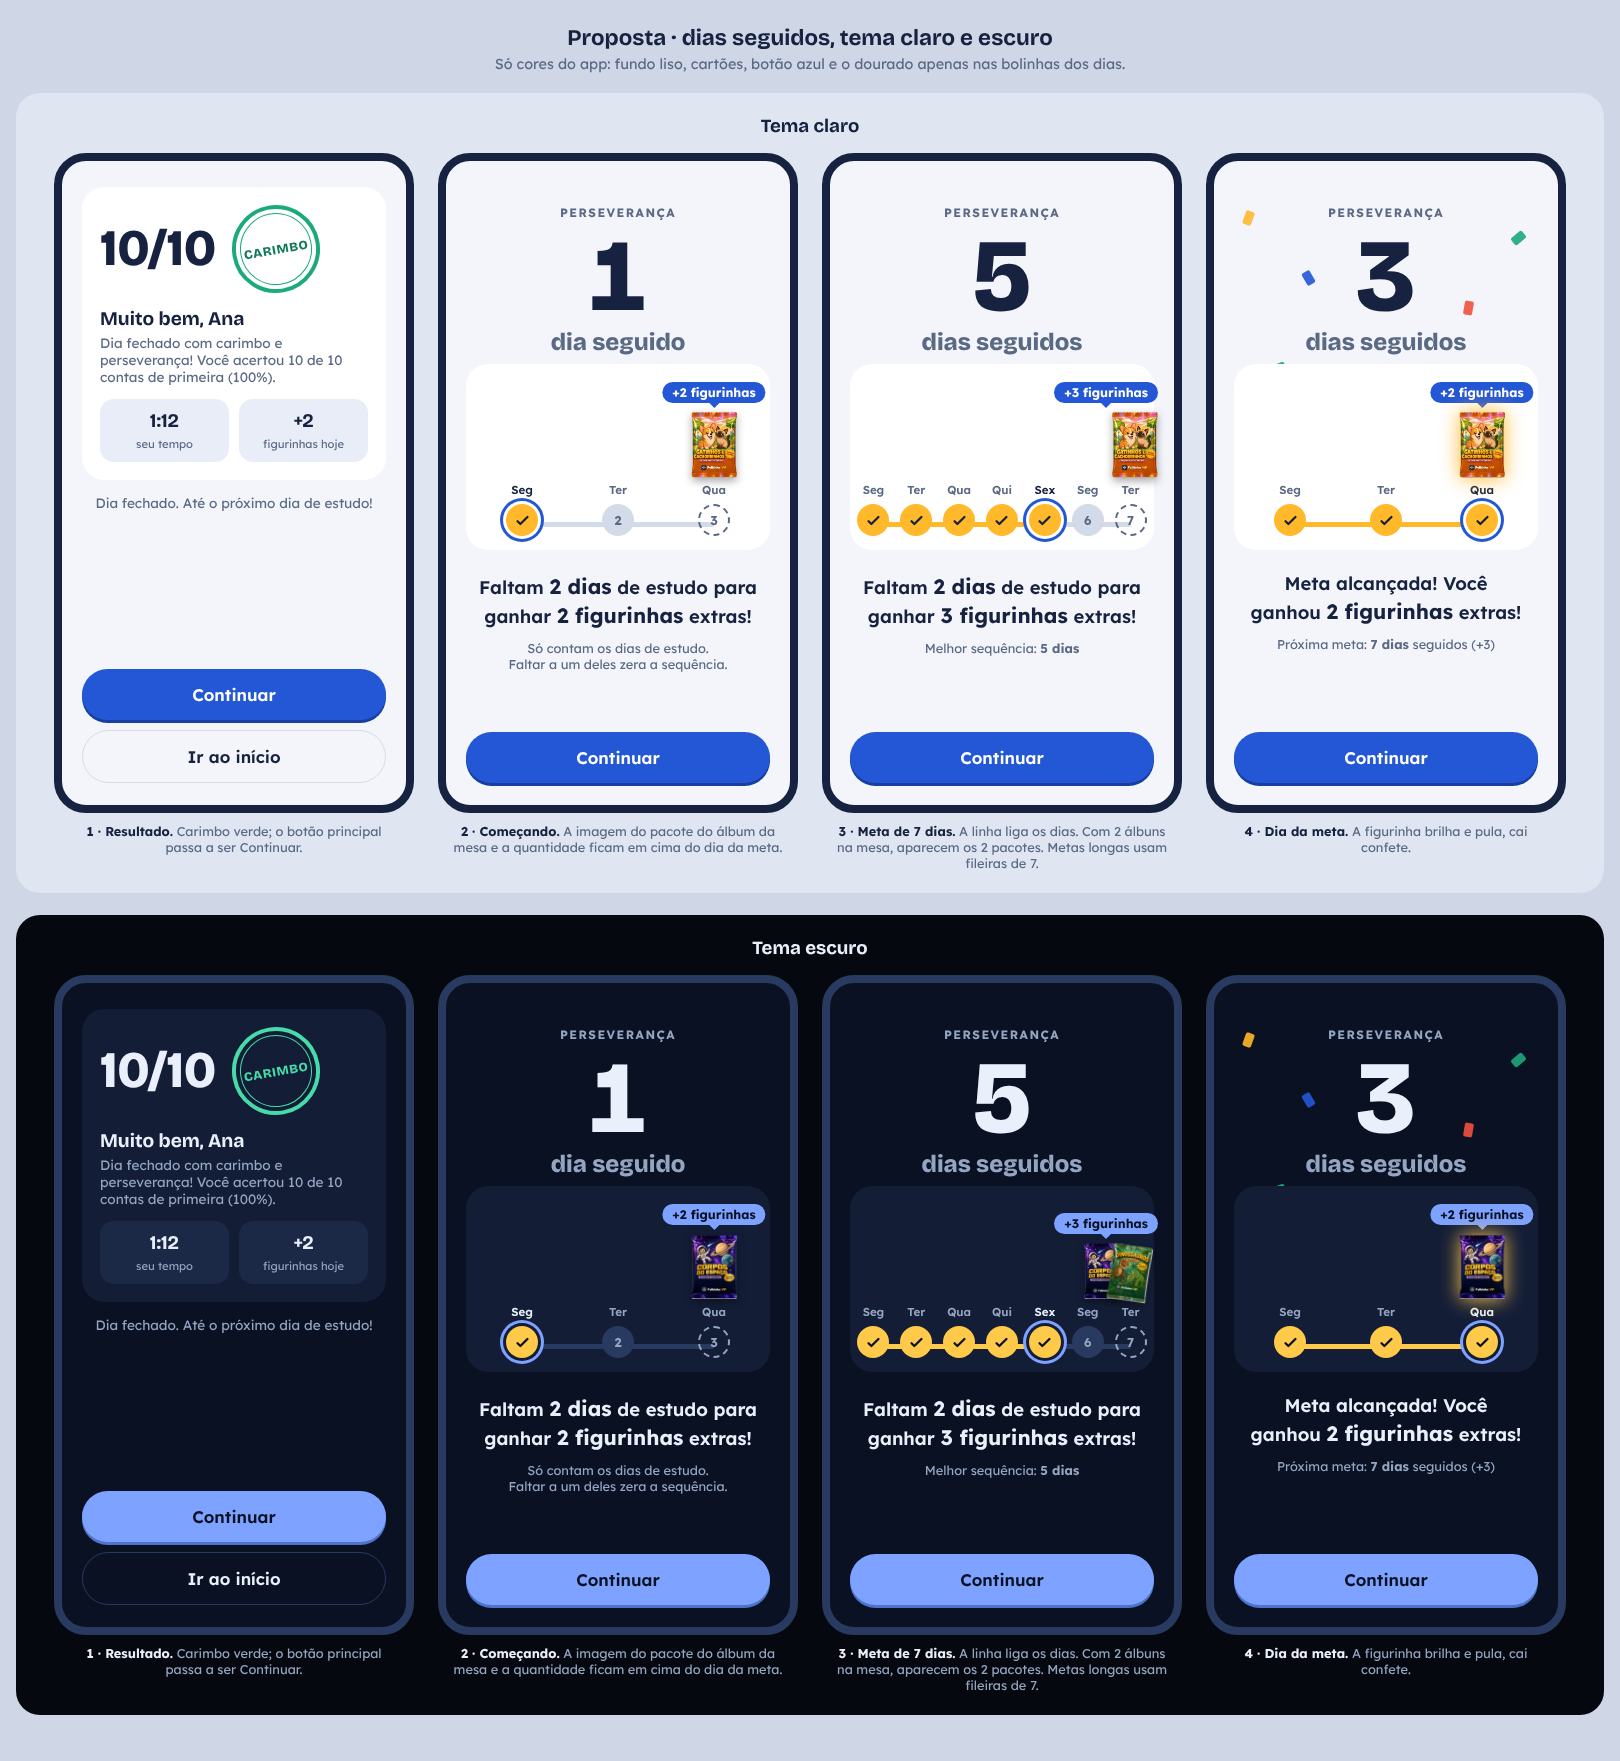
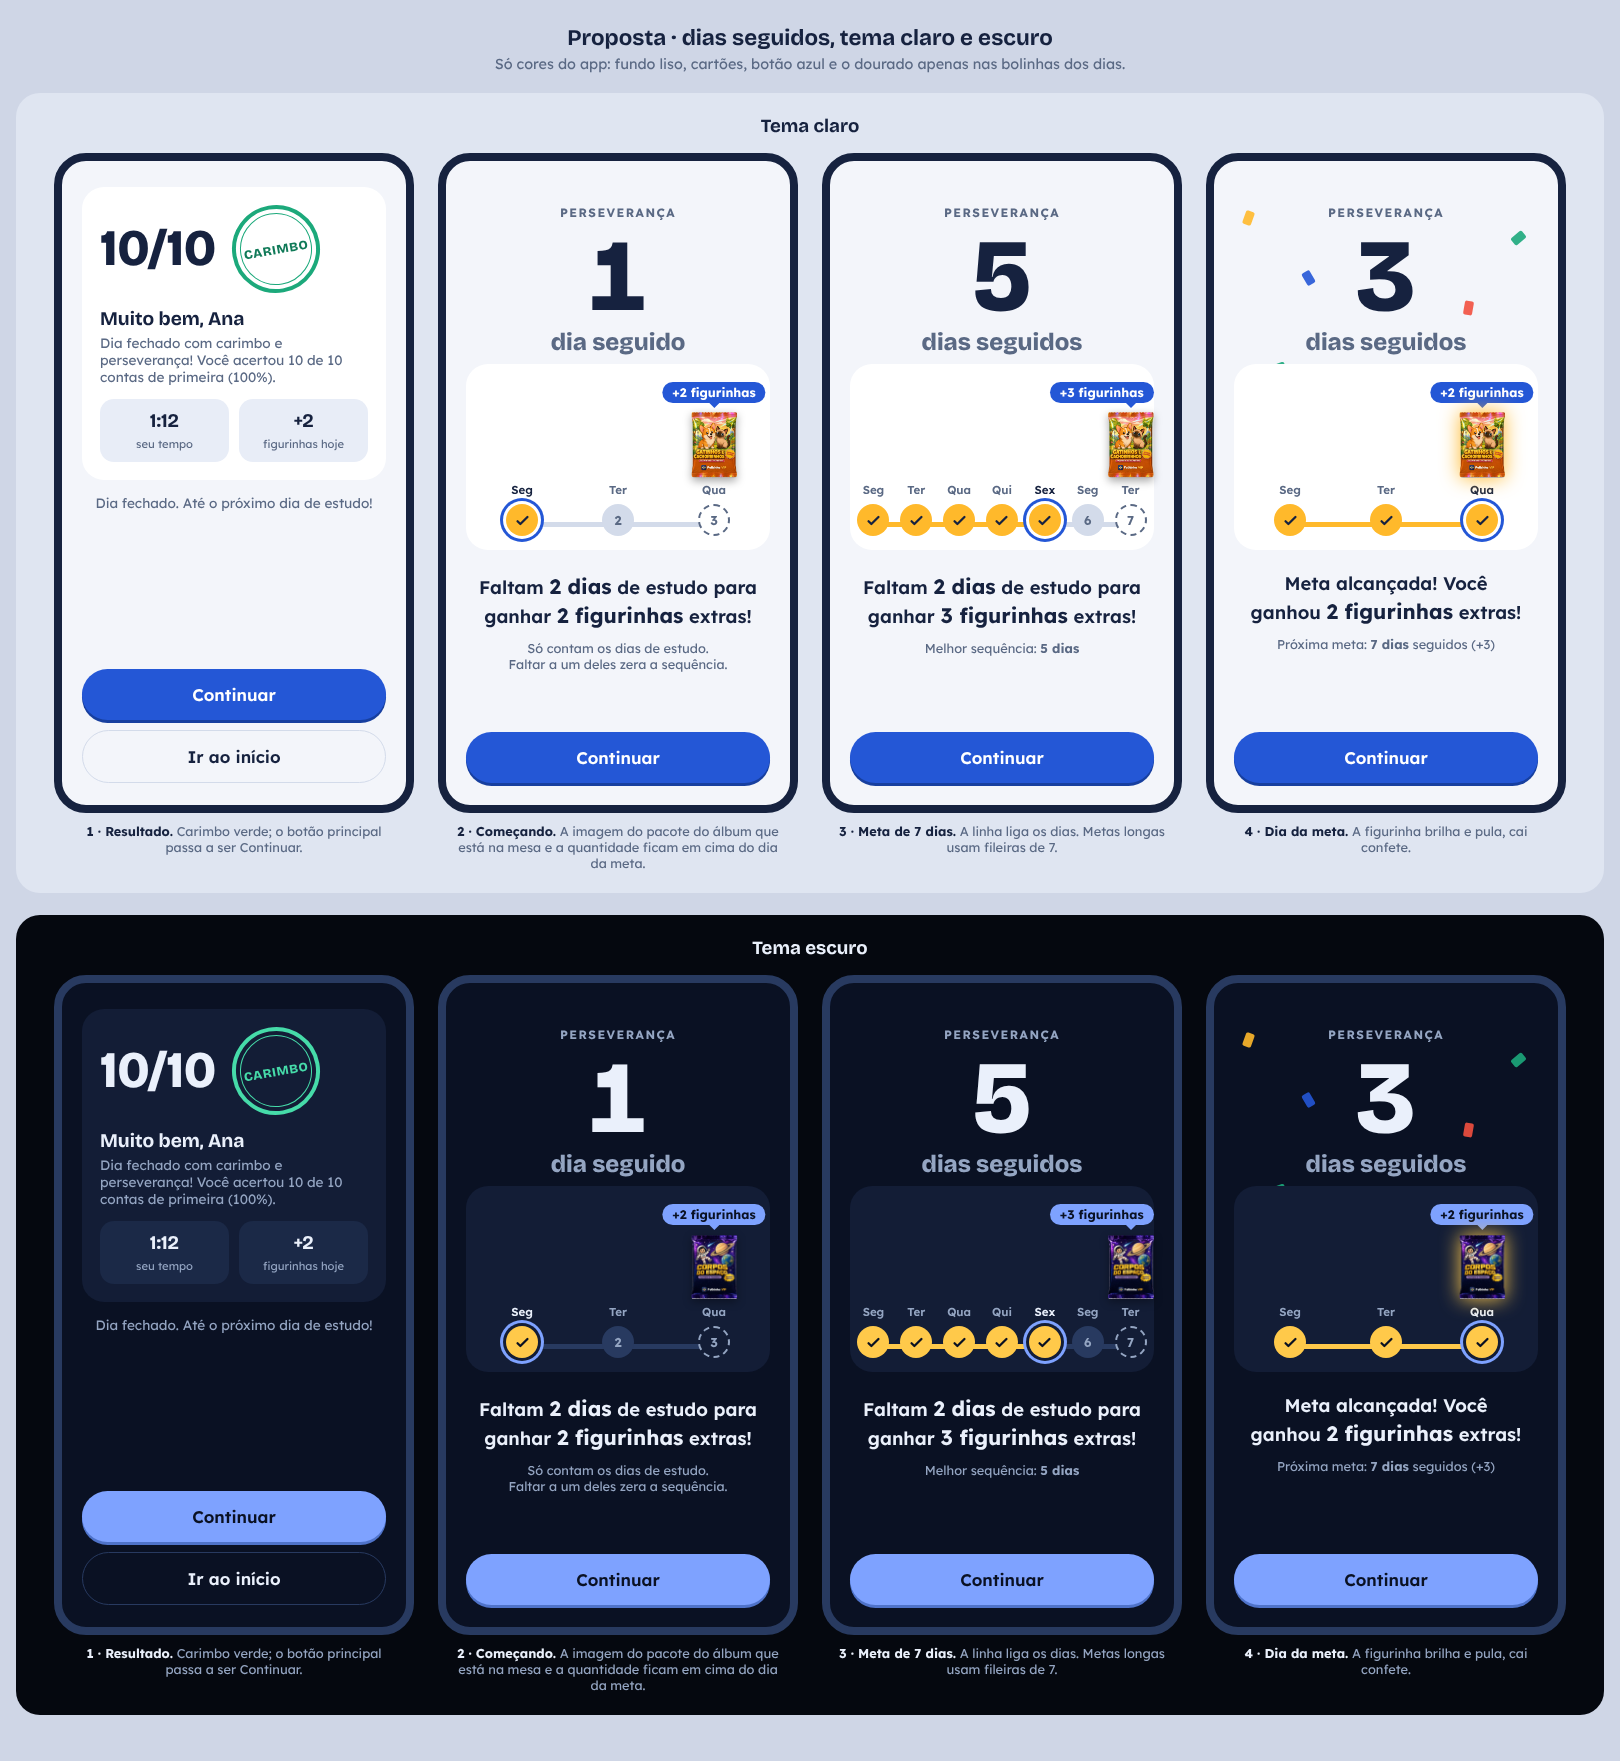
Proposta: linha atrás do dia da meta, balão alinhado ao pacote e só um álbum na mesa
Claude-Session: https://claude.ai/code/session_014sDEFzwa5sauggXK5Xk5eT

diff --git a/docs/proposta-tela-sequencia.html b/docs/proposta-tela-sequencia.html
@@ -27,12 +27,12 @@ figure{margin:0;display:flex;flex-direction:column;align-items:center;gap:10px}f
 .dot{width:32px;height:32px;border-radius:50%;background:var(--off);display:grid;place-items:center;color:var(--muted);font-weight:700;font-size:.8rem;position:relative;z-index:1}
 .d.done .dot{background:var(--ball);color:var(--on-ball)}.d.today .dot{box-shadow:0 0 0 3px var(--surface),0 0 0 6px var(--primary)}
 .dot svg{width:17px;height:17px;stroke:var(--on-ball);stroke-width:3.2;fill:none;stroke-linecap:round;stroke-linejoin:round}
-.d.goal .dot{background:none;border:2.5px dashed var(--muted);color:var(--muted)}.d.goal.done .dot{border:0;background:var(--ball)}
+.d.goal .dot{background:var(--surface);border:2.5px dashed var(--muted);color:var(--muted)}.d.goal.done .dot{border:0;background:var(--ball)}
 .days:before,.days:after{content:"";position:absolute;left:calc(100%/var(--n)/2);top:calc(1.1rem + 7px + 15px);height:5px;border-radius:9px;background:var(--off)}.days:before{right:calc(100%/var(--n)/2)}
 .days:after{width:calc((100% - 100%/var(--n))*var(--p));background:var(--ball)}
 .prize{position:absolute;bottom:calc(100% + 4px);left:50%;transform:translateX(-50%);display:flex;flex-direction:column;align-items:center}
 .pill{position:relative;background:var(--primary);color:var(--on-primary);border-radius:999px;padding:3px 10px;font-weight:700;font-size:.78rem;white-space:nowrap}
-.pill:after{content:"";position:absolute;left:50%;bottom:-5px;margin-left:-5px;border:5px solid transparent;border-bottom:0;border-top-color:var(--primary)}
+.prize[style*="flex-end"] .pill:after{left:auto;right:18px;margin-left:0}.pill:after{content:"";position:absolute;left:50%;bottom:-5px;margin-left:-5px;border:5px solid transparent;border-bottom:0;border-top-color:var(--primary)}
 .pk{width:46px;height:67px;object-fit:contain;margin-top:8px;filter:drop-shadow(0 3px 4px rgba(0,0,0,.35));border-radius:4px}.pk2{display:flex;margin-top:8px}.pk2{margin-right:8px}.pk2 .pk{margin-top:0;width:40px;height:58px}.pk2 .pk+.pk{margin-left:-14px;transform:rotate(8deg) translateY(2px)}.prize.open .pk{filter:drop-shadow(0 0 10px var(--ball))}
 .msg{text-align:center;font-weight:600;font-size:1.15rem;margin-top:22px;line-height:1.35;text-wrap:balance}.msg b{font-size:1.3rem}
 .hint{text-align:center;font-size:.8rem;color:var(--muted);margin-top:10px}
@@ -45,8 +45,8 @@ figure{margin:0;display:flex;flex-direction:column;align-items:center;gap:10px}f
 <div class="muted sm c">Dia fechado. Até o próximo dia de estudo!</div><button class="btn">Continuar</button><button class="btn ghost">Ir ao início</button></div><figcaption><b>1 · Resultado.</b> Carimbo verde; o botão principal passa a ser Continuar.</figcaption></figure><figure><div class="phone"><div class="hero"><div class="eyebrow">Perseverança</div><div class="num">1<small>dia seguido</small></div></div><div class="trail"><div class="days" style="--n:3;--p:0">
 <div class="d today done"><span class="wd">Seg</span><span class="dot"><svg viewBox="0 0 24 24"><path d="M5 13l4 4L19 7"/></svg></span></div><div class="d "><span class="wd">Ter</span><span class="dot">2</span></div><div class="d goal"><div class="prize"><span class="pill">+2 figurinhas</span><img class="pk" src="../stickers/pacotes/pets.webp" alt="Pacote do álbum pets"></div><span class="wd">Qua</span><span class="dot">3</span></div></div></div>
 <div class="msg">Faltam <b>2 dias</b> de estudo para ganhar <b>2 figurinhas</b> extras!</div>
-<div class="hint">Só contam os dias de estudo.<br>Faltar a um deles zera a sequência.</div><button class="btn">Continuar</button></div><figcaption><b>2 · Começando.</b> A imagem do pacote do álbum da mesa e a quantidade ficam em cima do dia da meta.</figcaption></figure><figure><div class="phone"><div class="hero"><div class="eyebrow">Perseverança</div><div class="num">5<small>dias seguidos</small></div></div><div class="trail" style="padding-left:2px;padding-right:2px"><div class="days" style="--n:7;--p:.667"><div class="d done"><span class="wd">Seg</span><span class="dot"><svg viewBox="0 0 24 24"><path d="M5 13l4 4L19 7"/></svg></span></div><div class="d done"><span class="wd">Ter</span><span class="dot"><svg viewBox="0 0 24 24"><path d="M5 13l4 4L19 7"/></svg></span></div><div class="d done"><span class="wd">Qua</span><span class="dot"><svg viewBox="0 0 24 24"><path d="M5 13l4 4L19 7"/></svg></span></div><div class="d done"><span class="wd">Qui</span><span class="dot"><svg viewBox="0 0 24 24"><path d="M5 13l4 4L19 7"/></svg></span></div><div class="d today done"><span class="wd">Sex</span><span class="dot"><svg viewBox="0 0 24 24"><path d="M5 13l4 4L19 7"/></svg></span></div><div class="d "><span class="wd">Seg</span><span class="dot">6</span></div><div class="d goal"><div class="prize" style="left:auto;right:-6px;transform:none;align-items:flex-end"><span class="pill">+3 figurinhas</span><img class="pk" src="../stickers/pacotes/pets.webp" alt="Pacote do álbum pets"></div><span class="wd">Ter</span><span class="dot">7</span></div></div></div>
-<div class="msg">Faltam <b>2 dias</b> de estudo para ganhar <b>3 figurinhas</b> extras!</div><div class="hint">Melhor sequência: <b>5 dias</b></div><button class="btn">Continuar</button></div><figcaption><b>3 · Meta de 7 dias.</b> A linha liga os dias. Com 2 álbuns na mesa, aparecem os 2 pacotes. Metas longas usam fileiras de 7.</figcaption></figure><figure><div class="phone" style="position:relative"><div class="conf"><i style="left:30px;top:50px;background:#FFB92B;transform:rotate(20deg)"></i><i style="left:90px;top:110px;background:#2457D6;transform:rotate(-30deg)"></i><i style="left:300px;top:70px;background:#1CA97B;transform:rotate(50deg)"></i><i style="left:250px;top:140px;background:#F2503F;transform:rotate(10deg)"></i><i style="left:60px;top:200px;background:#1CA97B;transform:rotate(70deg)"></i></div><div class="hero"><div class="eyebrow">Perseverança</div><div class="num">3<small>dias seguidos</small></div></div><div class="trail"><div class="days" style="--n:3;--p:1">
+<div class="hint">Só contam os dias de estudo.<br>Faltar a um deles zera a sequência.</div><button class="btn">Continuar</button></div><figcaption><b>2 · Começando.</b> A imagem do pacote do álbum que está na mesa e a quantidade ficam em cima do dia da meta.</figcaption></figure><figure><div class="phone"><div class="hero"><div class="eyebrow">Perseverança</div><div class="num">5<small>dias seguidos</small></div></div><div class="trail" style="padding-left:2px;padding-right:2px"><div class="days" style="--n:7;--p:.667"><div class="d done"><span class="wd">Seg</span><span class="dot"><svg viewBox="0 0 24 24"><path d="M5 13l4 4L19 7"/></svg></span></div><div class="d done"><span class="wd">Ter</span><span class="dot"><svg viewBox="0 0 24 24"><path d="M5 13l4 4L19 7"/></svg></span></div><div class="d done"><span class="wd">Qua</span><span class="dot"><svg viewBox="0 0 24 24"><path d="M5 13l4 4L19 7"/></svg></span></div><div class="d done"><span class="wd">Qui</span><span class="dot"><svg viewBox="0 0 24 24"><path d="M5 13l4 4L19 7"/></svg></span></div><div class="d today done"><span class="wd">Sex</span><span class="dot"><svg viewBox="0 0 24 24"><path d="M5 13l4 4L19 7"/></svg></span></div><div class="d "><span class="wd">Seg</span><span class="dot">6</span></div><div class="d goal"><div class="prize" style="left:auto;right:calc(50% - 23px);transform:none;align-items:flex-end"><span class="pill">+3 figurinhas</span><img class="pk" src="../stickers/pacotes/pets.webp" alt="Pacote do álbum pets"></div><span class="wd">Ter</span><span class="dot">7</span></div></div></div>
+<div class="msg">Faltam <b>2 dias</b> de estudo para ganhar <b>3 figurinhas</b> extras!</div><div class="hint">Melhor sequência: <b>5 dias</b></div><button class="btn">Continuar</button></div><figcaption><b>3 · Meta de 7 dias.</b> A linha liga os dias. Metas longas usam fileiras de 7.</figcaption></figure><figure><div class="phone" style="position:relative"><div class="conf"><i style="left:30px;top:50px;background:#FFB92B;transform:rotate(20deg)"></i><i style="left:90px;top:110px;background:#2457D6;transform:rotate(-30deg)"></i><i style="left:300px;top:70px;background:#1CA97B;transform:rotate(50deg)"></i><i style="left:250px;top:140px;background:#F2503F;transform:rotate(10deg)"></i><i style="left:60px;top:200px;background:#1CA97B;transform:rotate(70deg)"></i></div><div class="hero"><div class="eyebrow">Perseverança</div><div class="num">3<small>dias seguidos</small></div></div><div class="trail"><div class="days" style="--n:3;--p:1">
 <div class="d done"><span class="wd">Seg</span><span class="dot"><svg viewBox="0 0 24 24"><path d="M5 13l4 4L19 7"/></svg></span></div><div class="d done"><span class="wd">Ter</span><span class="dot"><svg viewBox="0 0 24 24"><path d="M5 13l4 4L19 7"/></svg></span></div><div class="d goal done today"><div class="prize open"><span class="pill">+2 figurinhas</span><img class="pk" src="../stickers/pacotes/pets.webp" alt="Pacote do álbum pets"></div><span class="wd">Qua</span><span class="dot"><svg viewBox="0 0 24 24"><path d="M5 13l4 4L19 7"/></svg></span></div></div></div>
 <div class="msg">Meta alcançada! Você ganhou <b>2 figurinhas</b> extras!</div><div class="hint">Próxima meta: <b>7 dias</b> seguidos (+3)</div><button class="btn">Continuar</button></div><figcaption><b>4 · Dia da meta.</b> A figurinha brilha e pula, cai confete.</figcaption></figure></div></section>
 <section class="theme dark"><h3>Tema escuro</h3><div class="row"><figure><div class="phone"><div class="panel"><div class="score"><div class="big">10/10</div><div class="seal">Carimbo</div></div>
@@ -55,8 +55,8 @@ figure{margin:0;display:flex;flex-direction:column;align-items:center;gap:10px}f
 <div class="muted sm c">Dia fechado. Até o próximo dia de estudo!</div><button class="btn">Continuar</button><button class="btn ghost">Ir ao início</button></div><figcaption><b>1 · Resultado.</b> Carimbo verde; o botão principal passa a ser Continuar.</figcaption></figure><figure><div class="phone"><div class="hero"><div class="eyebrow">Perseverança</div><div class="num">1<small>dia seguido</small></div></div><div class="trail"><div class="days" style="--n:3;--p:0">
 <div class="d today done"><span class="wd">Seg</span><span class="dot"><svg viewBox="0 0 24 24"><path d="M5 13l4 4L19 7"/></svg></span></div><div class="d "><span class="wd">Ter</span><span class="dot">2</span></div><div class="d goal"><div class="prize"><span class="pill">+2 figurinhas</span><img class="pk" src="../stickers/pacotes/espaco.webp" alt="Pacote do álbum espaco"></div><span class="wd">Qua</span><span class="dot">3</span></div></div></div>
 <div class="msg">Faltam <b>2 dias</b> de estudo para ganhar <b>2 figurinhas</b> extras!</div>
-<div class="hint">Só contam os dias de estudo.<br>Faltar a um deles zera a sequência.</div><button class="btn">Continuar</button></div><figcaption><b>2 · Começando.</b> A imagem do pacote do álbum da mesa e a quantidade ficam em cima do dia da meta.</figcaption></figure><figure><div class="phone"><div class="hero"><div class="eyebrow">Perseverança</div><div class="num">5<small>dias seguidos</small></div></div><div class="trail" style="padding-left:2px;padding-right:2px"><div class="days" style="--n:7;--p:.667"><div class="d done"><span class="wd">Seg</span><span class="dot"><svg viewBox="0 0 24 24"><path d="M5 13l4 4L19 7"/></svg></span></div><div class="d done"><span class="wd">Ter</span><span class="dot"><svg viewBox="0 0 24 24"><path d="M5 13l4 4L19 7"/></svg></span></div><div class="d done"><span class="wd">Qua</span><span class="dot"><svg viewBox="0 0 24 24"><path d="M5 13l4 4L19 7"/></svg></span></div><div class="d done"><span class="wd">Qui</span><span class="dot"><svg viewBox="0 0 24 24"><path d="M5 13l4 4L19 7"/></svg></span></div><div class="d today done"><span class="wd">Sex</span><span class="dot"><svg viewBox="0 0 24 24"><path d="M5 13l4 4L19 7"/></svg></span></div><div class="d "><span class="wd">Seg</span><span class="dot">6</span></div><div class="d goal"><div class="prize" style="left:auto;right:-6px;transform:none;align-items:flex-end"><span class="pill">+3 figurinhas</span><span class="pk2"><img class="pk" src="../stickers/pacotes/espaco.webp" alt="Pacote do álbum espaco"><img class="pk" src="../stickers/pacotes/dinossauros.webp" alt="Pacote do álbum dinossauros"></span></div><span class="wd">Ter</span><span class="dot">7</span></div></div></div>
-<div class="msg">Faltam <b>2 dias</b> de estudo para ganhar <b>3 figurinhas</b> extras!</div><div class="hint">Melhor sequência: <b>5 dias</b></div><button class="btn">Continuar</button></div><figcaption><b>3 · Meta de 7 dias.</b> A linha liga os dias. Com 2 álbuns na mesa, aparecem os 2 pacotes. Metas longas usam fileiras de 7.</figcaption></figure><figure><div class="phone" style="position:relative"><div class="conf"><i style="left:30px;top:50px;background:#FFB92B;transform:rotate(20deg)"></i><i style="left:90px;top:110px;background:#2457D6;transform:rotate(-30deg)"></i><i style="left:300px;top:70px;background:#1CA97B;transform:rotate(50deg)"></i><i style="left:250px;top:140px;background:#F2503F;transform:rotate(10deg)"></i><i style="left:60px;top:200px;background:#1CA97B;transform:rotate(70deg)"></i></div><div class="hero"><div class="eyebrow">Perseverança</div><div class="num">3<small>dias seguidos</small></div></div><div class="trail"><div class="days" style="--n:3;--p:1">
+<div class="hint">Só contam os dias de estudo.<br>Faltar a um deles zera a sequência.</div><button class="btn">Continuar</button></div><figcaption><b>2 · Começando.</b> A imagem do pacote do álbum que está na mesa e a quantidade ficam em cima do dia da meta.</figcaption></figure><figure><div class="phone"><div class="hero"><div class="eyebrow">Perseverança</div><div class="num">5<small>dias seguidos</small></div></div><div class="trail" style="padding-left:2px;padding-right:2px"><div class="days" style="--n:7;--p:.667"><div class="d done"><span class="wd">Seg</span><span class="dot"><svg viewBox="0 0 24 24"><path d="M5 13l4 4L19 7"/></svg></span></div><div class="d done"><span class="wd">Ter</span><span class="dot"><svg viewBox="0 0 24 24"><path d="M5 13l4 4L19 7"/></svg></span></div><div class="d done"><span class="wd">Qua</span><span class="dot"><svg viewBox="0 0 24 24"><path d="M5 13l4 4L19 7"/></svg></span></div><div class="d done"><span class="wd">Qui</span><span class="dot"><svg viewBox="0 0 24 24"><path d="M5 13l4 4L19 7"/></svg></span></div><div class="d today done"><span class="wd">Sex</span><span class="dot"><svg viewBox="0 0 24 24"><path d="M5 13l4 4L19 7"/></svg></span></div><div class="d "><span class="wd">Seg</span><span class="dot">6</span></div><div class="d goal"><div class="prize" style="left:auto;right:calc(50% - 23px);transform:none;align-items:flex-end"><span class="pill">+3 figurinhas</span><img class="pk" src="../stickers/pacotes/espaco.webp" alt="Pacote do álbum espaco"></div><span class="wd">Ter</span><span class="dot">7</span></div></div></div>
+<div class="msg">Faltam <b>2 dias</b> de estudo para ganhar <b>3 figurinhas</b> extras!</div><div class="hint">Melhor sequência: <b>5 dias</b></div><button class="btn">Continuar</button></div><figcaption><b>3 · Meta de 7 dias.</b> A linha liga os dias. Metas longas usam fileiras de 7.</figcaption></figure><figure><div class="phone" style="position:relative"><div class="conf"><i style="left:30px;top:50px;background:#FFB92B;transform:rotate(20deg)"></i><i style="left:90px;top:110px;background:#2457D6;transform:rotate(-30deg)"></i><i style="left:300px;top:70px;background:#1CA97B;transform:rotate(50deg)"></i><i style="left:250px;top:140px;background:#F2503F;transform:rotate(10deg)"></i><i style="left:60px;top:200px;background:#1CA97B;transform:rotate(70deg)"></i></div><div class="hero"><div class="eyebrow">Perseverança</div><div class="num">3<small>dias seguidos</small></div></div><div class="trail"><div class="days" style="--n:3;--p:1">
 <div class="d done"><span class="wd">Seg</span><span class="dot"><svg viewBox="0 0 24 24"><path d="M5 13l4 4L19 7"/></svg></span></div><div class="d done"><span class="wd">Ter</span><span class="dot"><svg viewBox="0 0 24 24"><path d="M5 13l4 4L19 7"/></svg></span></div><div class="d goal done today"><div class="prize open"><span class="pill">+2 figurinhas</span><img class="pk" src="../stickers/pacotes/espaco.webp" alt="Pacote do álbum espaco"></div><span class="wd">Qua</span><span class="dot"><svg viewBox="0 0 24 24"><path d="M5 13l4 4L19 7"/></svg></span></div></div></div>
 <div class="msg">Meta alcançada! Você ganhou <b>2 figurinhas</b> extras!</div><div class="hint">Próxima meta: <b>7 dias</b> seguidos (+3)</div><button class="btn">Continuar</button></div><figcaption><b>4 · Dia da meta.</b> A figurinha brilha e pula, cai confete.</figcaption></figure></div></section>
 </body></html>
